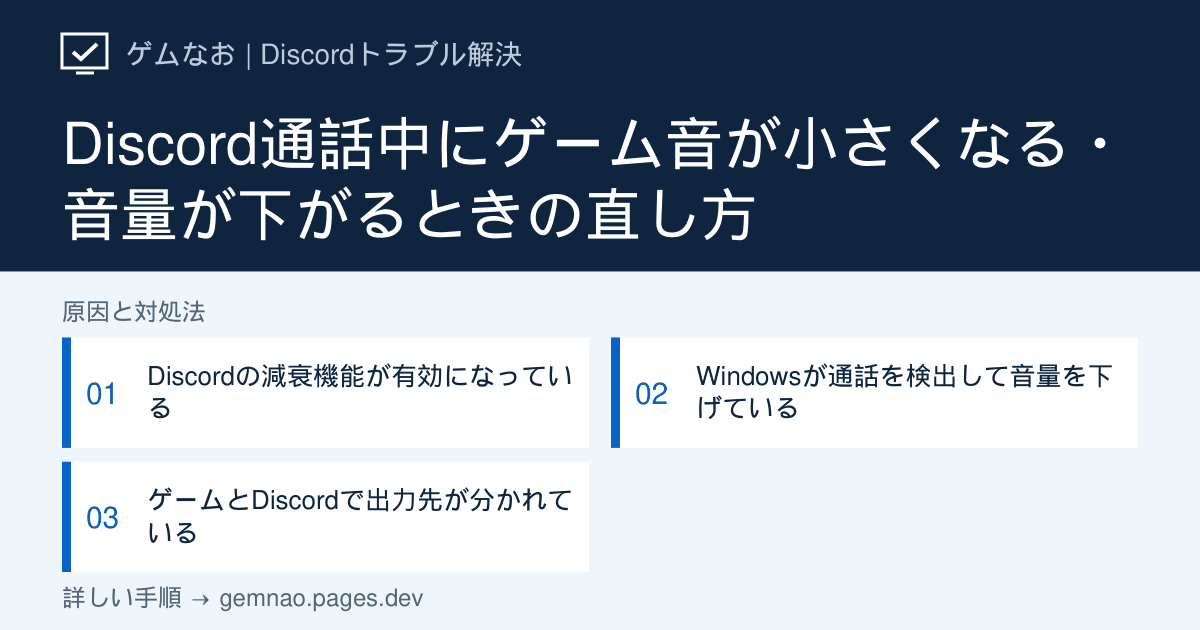
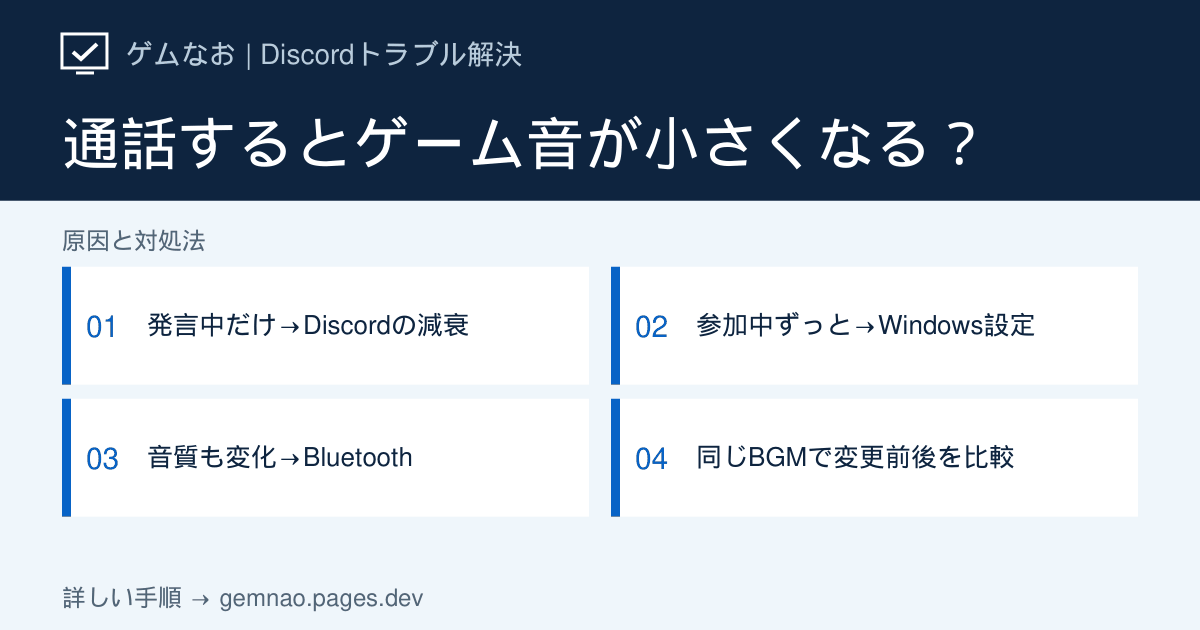
Improve game audio attenuation guide with timing and Bluetooth comparisons

diff --git a/lib/discord-audio-growth-articles.ts b/lib/discord-audio-growth-articles.ts
@@ -51,25 +51,91 @@ const windowsLeAudio = {
 export const discordAudioGrowthArticles: DiscordArticle[] = [
   {
     slug: 'game-volume-lowers', category: 'audio',
-    title: 'Discord通話中にゲーム音が小さくなる・音量が下がるときの直し方',
+    title: 'Discord通話中にゲーム音が小さくなる｜発言時・参加直後・音質変化で切り分け',
     shortTitle: '通話中にゲーム音が小さくなる',
-    seoTitle: 'Discord通話中にゲーム音が小さくなる原因と直し方【PC】',
-    metaDescription: 'Discord通話中にゲーム音やほかのアプリの音量が自動で下がる場合の対処法。Discordの減衰とWindowsの通信設定を切り分けます。',
-    symptom: 'Discordで誰かが話すとゲーム音だけが小さくなる、通話へ参加した直後にBGMや効果音の音量が下がる場合の手順です。',
-    target: 'Windows 11 / Windows 10版 Discordデスクトップアプリ',
-    conclusion: 'Discordの「減衰」を0%にし、直らなければWindowsの通信設定を「何もしない」に変更します。ゲーム内音量と出力先も確認してください。',
-    quickFixes: ['Discordの「音声・ビデオ」→「減衰」を0%にする', 'Windowsのサウンド通信設定を「何もしない」にする', 'ゲームとDiscordの出力デバイスを同じ機器へそろえる'],
+    seoTitle: 'Discord通話中にゲーム音が小さくなる原因と直し方｜減衰・Windows設定',
+    metaDescription: '誰かが話す時だけ、通話参加直後からずっと、音質も変わる場合を区別。Discordの減衰、Windows通信設定、Bluetoothの切り分けと、同じゲーム音で変更前後を比較する手順を解説します。',
+    symptom: '通話中にBGMや効果音が自動で小さくなる、参加した瞬間から音量が下がる、Bluetooth使用時に音がこもる場合の手順です。',
+    target: 'Windows 11／Windows 10のDiscordデスクトップアプリ',
+    conclusion: '発言中だけ下がるならDiscordの減衰を0％で比較。通話参加直後から下がり続けるならWindowsの通信設定を確認します。Bluetoothで音質まで変わるなら通話用の音声モードを切り分けてください。同じ場面で1項目ずつ変更し、通話前・無言・発言中・退出後の違いを確認します。',
+    quickFixes: ['小さくなるタイミングと、音量だけか音質も変わるかを確認する', '症状に合う減衰・通信設定・Bluetoothの手順を1つずつ試す', '同じBGMで通話前後を比較し、改善しない変更は元へ戻す'],
+    showStatusCheck: false,
+    diagnosisTitle: 'いつゲーム音が変わる？ 発生タイミング別の判断表',
+    diagnosisIntro: 'タイミングは確認先を絞る手がかりで、原因を断定するものではありません。複数の設定が重なる場合もあるため、一度に全部を変えないでください。',
+    diagnosis: [
+      { symptom: '誰かが話している時だけ下がり、黙ると戻る', check: 'Discordの減衰を0％にして同じ発言で比較', causeIndex: 2 },
+      { symptom: '通話に入った直後から、無言でも小さい', check: 'Windowsの通信設定。音質も変わるならBluetoothも確認', causeIndex: 3 },
+      { symptom: 'Bluetooth使用時、通話開始でこもる・薄い音になる', check: '別マイクや有線機器で通話用モードの影響を比較', causeIndex: 4 },
+      { symptom: 'Discordへ画面を切り替えた時だけ下がる', check: 'ゲームを手前に戻して比較。非アクティブ時の音量設定', causeIndex: 5 },
+      { symptom: '退出しても小さい／特定ゲームだけ小さい', check: 'アプリ別音量・出力先・ゲーム内設定を確認', causeIndex: 5 },
+    ],
     causes: [
-      { title: 'Discordの減衰機能が有効になっている', description: 'ほかの人が話した時に別アプリの音量を下げる機能です。', actions: ['ユーザー設定から「音声・ビデオ」を開く', '詳細設定付近の「減衰」を探す', 'スライダーを0%にして通話で確認する'] },
-      { title: 'Windowsが通話を検出して音量を下げている', description: 'Windowsにも通信中に他の音を下げる設定があります。', actions: ['Windowsのサウンド設定から「その他のサウンド設定」を開く', '「通信」タブを開く', '「何もしない」を選択して適用する'] },
-      { title: 'ゲームとDiscordで出力先が分かれている', description: '既定の出力先が変わると、片方だけ音量や音質が変化します。', actions: ['Windowsの音量ミキサーを開く', 'ゲームとDiscordの出力デバイスを確認する', '同じヘッドセットまたはスピーカーへそろえる'] },
+      {
+        title: '同じBGMで、通話前・無言・発言中・退出後を比較する',
+        description: '戦闘やカットシーンでは元の音量自体が変わります。安定してBGMが流れるメニューなどを使い、聞き比べる条件をそろえます。',
+        actions: [
+          'ゲーム・Windows・ヘッドセット本体の音量を控える。試験中はそれらを固定し、出力機器も同じものを使う。',
+          '通話に入る前のゲーム音を聞く。次に通話へ入り全員が無言の時、相手が話す時、自分が話す時を順に確認する。',
+          '通話から退出して元に戻るか見る。「発言中だけ低下／参加中ずっと低下／音質も変化／退出後も低下」のどれかを記録する。',
+          '画面を切り替えるだけでゲーム音が変わる場合は、各比較でゲームを手前に戻して聞く。それでも通話開始と連動するかを確認する。',
+        ],
+      },
+      {
+        title: '発言中だけなら、Discordの減衰を0％にして比べる',
+        description: '減衰は他のアプリの音量を下げ、会話を聞き取りやすくする機能です。ゲーム音の自動低下を止めたい時は、まずこの設定を確認します。',
+        actions: [
+          'Discord左下の歯車→「音声・ビデオ」を開き、「減衰／Attenuation」を探す。画面構成が異なる場合は音声の項目を確認する。',
+          '元の割合を控えてスライダーを0％にする。自分・他の人が話す時の適用項目が表示される場合は、元のオン／オフも控える。',
+          'STEP 1と同じBGMで相手と自分が順に話す。無言時は同じ音量で、発言中の低下だけがなくなれば減衰設定の変更で改善したと判断する。',
+          '変化がなければ元の設定へ戻してSTEP 3または4へ。すでに0％なら同じ操作を繰り返さない。項目が見つからない場合も未確認と記録し、Windows側の比較を進める。',
+        ],
+        note: '0％にすると会話がゲーム音に埋もれる場合があります。その時はゲーム側の音量を調整するか、必要な範囲で減衰を戻してください。',
+      },
+      {
+        title: '参加直後から小さいなら、Windowsの通信設定を確認する',
+        description: 'Windowsにも通信開始時に他の音を下げる仕組みがあります。「何もしない」はWindows側の自動減衰を止める設定で、Bluetoothの音質変化まで直すものではありません。',
+        actions: [
+          'Windows＋Rを押し、mmsys.cpl と入力してEnterを押す。「サウンド」画面の「通信」タブを開く。',
+          '現在の選択を控え、「何もしない」を選んで「適用」→「OK」を押す。',
+          'Discordの通話から退出して再参加する。同じBGMを使い、無言でも音量が下がるか、退出すると戻るかを比較する。',
+          '参加直後の低下がなくなればこの設定で改善。変化がなければ元に戻し、音質も変わる場合はSTEP 4、音量だけならSTEP 5へ進む。',
+        ],
+      },
+      {
+        title: 'Bluetoothで音質も変わるなら、マイク使用時のモードを切り分ける',
+        description: '従来のBluetooth音声では、同じヘッドセットのマイクを使うと通話向けモードになり、音質が下がる場合があります。音量スライダーだけでは解消しない変化です。',
+        actions: [
+          '「小さくなる」だけでなく、こもる・高音が減るなどの変化が通話開始と同時に出るか記録する。再ペアリングより先にこの比較を行う。',
+          '内蔵マイクやUSBマイクがあれば、Discordの「音声・ビデオ」で入力をその機器、出力をBluetoothヘッドセットに指定して通話へ入り直す。ほかのアプリでもヘッドセットのマイクを使用していないか確認する。',
+          '音質が戻るならBluetoothマイク使用時のモードが関係する手がかりになる。別のマイクがなければ、有線・USBのイヤホンなど手元の機器で比較する。機器がない場合は未確認として記録する。',
+          '別機器でも音量だけ下がるなら減衰・通信設定へ戻る。Bluetoothだけで再現する場合は関連記事「Bluetoothでゲーム音が消える・音質が悪い」で対応条件を確認する。',
+        ],
+        note: 'LE Audioなどでは挙動が異なるため、すべてのBluetooth機器に同じ制約があるとは限りません。比較だけを目的に新しい機器を買う必要はありません。',
+      },
+      {
+        title: '退出後も小さい・特定ゲームだけなら、音量と出力先を確認する',
+        description: '通話終了後も戻らない時は、継続して低くなっている設定や、ゲーム固有の音量制御を調べます。',
+        actions: [
+          'Windows 11は「設定」→「システム」→「サウンド」→「音量ミキサー」を開く。Windows 10はタスクバーのスピーカーを右クリック→「音量ミキサーを開く」でゲームの音量を確認する。',
+          'ゲームがミュート・低音量になっていないか、出力先を選べる場合は意図した機器かを確認する。通話前の記録と照合し、低くなった項目だけを戻す。',
+          '特定ゲームだけなら、ゲーム内のマスター音量・ボイスチャット関連設定と、非アクティブ時の音量項目があるか確認する。元の値を控え、1項目ずつ変えて同じ場面で比較する。',
+          'ヘッドセットにGame／Chatのバランス調整がある場合は位置を記録し、中央付近で比較する。使用中の音声ミキサーアプリにも自動音量調整があれば、その機能だけを確認する。',
+          '改善後は通話へ再参加して発言・無言・退出を再確認する。直らなければ発生タイミング、入出力機器、減衰・通信設定の変更前後をまとめて相談する。',
+        ],
+      },
     ],
-    ifNotFixed: 'Bluetooth使用時だけ発生する場合はBluetooth音声の記事で通話用プロファイルを確認してください。特定ゲームだけなら、そのゲーム内の出力デバイスとボイスチャット設定も確認します。',
+    ifNotFixed: '記録例：「同じBGMで、通話前は正常／参加直後から小さい／発言の有無で変わらない／退出すると戻る／減衰0％は変化なし／Windowsの通信設定変更後は改善」。これは比較の記入例です。実際の結果に置き換え、音質変化の有無も添えてください。',
     faqs: [
-      { question: '減衰を0%にしてもゲーム音が小さくなります', answer: 'Windows側の「通信」設定と音量ミキサーを確認してください。Bluetooth機器では通話開始時の音声モード切り替えが原因の場合もあります。' },
-      { question: '相手が話した時だけ小さくなるのは故障ですか？', answer: '故障とは限りません。Discordの減衰は、相手が話している間だけ他のアプリ音量を下げる機能です。' },
+      { question: '減衰0％でも小さくなるのはなぜ？', answer: 'Windowsの通信設定、Bluetoothの音声モード、ゲームや機器側の音量制御などが候補です。通話参加時からか発言中だけか、音質も変わるかで次の確認先を選びます。' },
+      { question: 'ノイズ抑制をオフにすればゲーム音は戻る？', answer: 'ノイズ抑制は主にマイクに入る雑音を処理する機能です。他アプリの音量を下げる減衰とは別なので、ゲーム音の低下にはまず減衰とWindowsの通信設定を確認します。' },
+      { question: 'Windowsの「何もしない」は何もしなくなる設定？', answer: '通信を検出した時にWindowsが他の音を自動で下げないという意味です。Discordやゲーム独自の音量制御、Bluetoothの音声モードは別に確認する必要があります。' },
+      { question: '通話が終わっても小さいままです', answer: 'Windows音量ミキサーのゲーム音量と出力先を確認し、通話前の記録へ戻します。ゲーム内やヘッドセットの音量も確認し、全部を一度に最大にしないでください。' },
     ],
-    sources: [attenuation, voiceGuide], related: ['bluetooth-audio-problem', 'cant-hear-voice', 'slow-performance'], checkedAt: '2026-09-19', status: 'verified',
+    sources: [attenuation, discordBluetoothQuality, windowsAppAudio, { label: 'Microsoft公式：通信時の音量減衰と通信タブ', url: 'https://learn.microsoft.com/en-us/windows/win32/coreaudio/stream-attenuation' }, { label: 'Microsoft公式：通信デバイスとサウンド設定', url: 'https://learn.microsoft.com/en-us/windows/win32/coreaudio/using-the-communication-device' }, windowsLeAudio],
+    related: ['bluetooth-audio-problem', 'user-volume-low', 'cant-hear-voice'],
+    checkedAt: '2026-09-28', status: 'verified',
+    ogTitle: '通話するとゲーム音が小さくなる？',
+    ogSteps: ['発言中だけ→Discordの減衰', '参加中ずっと→Windows設定', '音質も変化→Bluetooth', '同じBGMで変更前後を比較'],
   },
   {
     slug: 'mic-volume-low', category: 'audio',

diff --git a/lib/og-image-manifest.ts b/lib/og-image-manifest.ts
@@ -14,7 +14,7 @@ export const ogImageManifest: Record<string, string> = {
   "/discord/error-1002": "ead6d712",
   "/discord/error-1003": "aa3963fa",
   "/discord/game-not-detected": "677b005b",
-  "/discord/game-volume-lowers": "51f67981",
+  "/discord/game-volume-lowers": "2553f87b",
   "/discord/installation-failed": "934a70cc",
   "/discord/loading-stuck": "c18e0bfc",
   "/discord/login-error": "de4a0c87",
